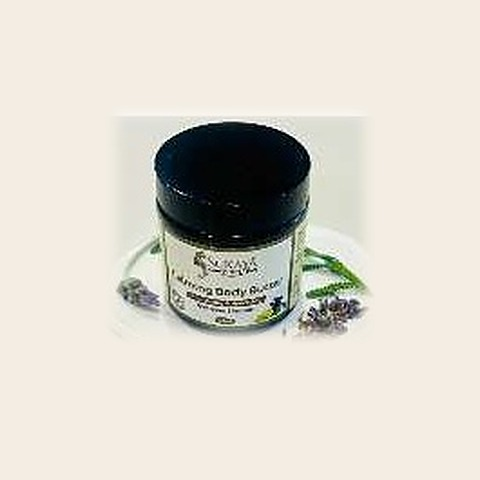
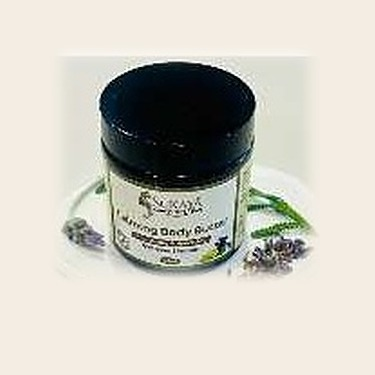
Replace low-resolution product and ingredient photos
Swaps in professional studio photos for 7 products (Super Fruits,
Calming Body Oil, Uplifting Body Oil, Lavender Balm, Patchouli, Pink
Blush, Berry Light), adds a real photo library for all 12 ingredient
chips (previously several were flat color placeholders), and builds a
Trial Collection composite from real product shots instead of a single
blurry snapshot.

Also fixes several spots where a small image crop (sized for an
ingredient card) was being stretched across a much larger hero context
— the ScrollStory Nourish/Restore chapters and two Announcement detail
pages now use properly high-resolution sources.

Changed region(s): [[0.1467, 0.1467, 0.8507, 0.7627], [0.7627, 0.2933, 0.8213, 0.4693], [0.4693, 0.3813, 0.4987, 0.44]]

diff --git a/lib/announcements.ts b/lib/announcements.ts
@@ -60,7 +60,7 @@ export const announcements: AnnouncementEntry[] = [
     shortDescription: "Botanical nourishment for your daily ritual.",
     content:
       "Rosehip, sea buckthorn, and a quiet blend of carotenoid-rich oils — formulated for the moments skin needs to restore, not just perform. Essential-oil-free and gentle enough for daily use.",
-    image: "/images/ingredients/rosehip-closeup.jpg",
+    image: "/images/lifestyle/rosehip-restore.jpg",
     imageAlt: "Rosehip, one of the key botanicals in the Super Fruits Face Elixir",
     date: "2026-08-20",
     ctaText: "Discover",
@@ -107,8 +107,8 @@ export const announcements: AnnouncementEntry[] = [
     shortDescription: "The full Sukaya ingredient library — what's in every formula, and why.",
     content:
       "Waterless, preservative-free, and never hiding behind a proprietary blend. Every oil, extract, and butter we use is listed with the reason it's there.",
-    image: "/images/ingredients/lavender-closeup.jpg",
-    imageAlt: "Lavender, one of the botanicals used across the Sukaya range",
+    image: "/images/lifestyle/philosophy-botanicals.jpg",
+    imageAlt: "Lavender, rosehip, geranium, and strawberry arranged on a natural surface",
     date: "2026-06-01",
     ctaText: "Explore Ingredients",
     ctaLink: "/about#ingredients",
@@ -192,7 +192,7 @@ export const announcements: AnnouncementEntry[] = [
     type: "shipping",
     title: "A Note On Shipping.",
     shortDescription: "[Add real shipping details here.]",
-    image: "/images/lifestyle/ingredients-honeycomb-lavender.jpg",
+    image: "/images/lifestyle/honey-lavender-nourish.jpg",
     imageAlt: "Honeycomb and lavender, ingredients used across the Sukaya range",
     date: "2026-09-01",
     ctaText: "Learn More",

diff --git a/lib/ingredient-gallery.ts b/lib/ingredient-gallery.ts
@@ -30,44 +30,37 @@ export const ingredientGallery: GalleryIngredient[] = [
   {
     name: "Camellia",
     benefit: "Silk-soft, deeply hydrating",
-    color: "#e7d3ce",
-    textColor: "#5a3a34",
+    image: "/images/ingredients/camellia-closeup.jpg",
   },
   {
     name: "Jojoba",
     benefit: "Mirrors skin's own oils",
-    color: "#cbb27a",
-    textColor: "#453a1f",
+    image: "/images/ingredients/jojoba-closeup.jpg",
   },
   {
     name: "Sea Buckthorn",
     benefit: "Regenerates, protects",
-    color: "#d97f3d",
-    textColor: "#3a230f",
+    image: "/images/ingredients/sea-buckthorn-closeup.jpg",
   },
   {
     name: "Hibiscus",
     benefit: "Nature's gentle exfoliant",
-    color: "#b8506e",
-    textColor: "#fbe9ee",
+    image: "/images/ingredients/hibiscus-closeup.jpg",
   },
   {
     name: "Calendula",
     benefit: "Soothes and repairs",
-    color: "#dda43e",
-    textColor: "#3a2a0f",
+    image: "/images/ingredients/calendula-closeup.jpg",
   },
   {
     name: "Pomegranate",
     benefit: "Firms, brightens, protects",
-    color: "#7d2f3a",
-    textColor: "#f6e3e2",
+    image: "/images/ingredients/pomegranate-closeup.jpg",
   },
   {
     name: "Shea",
     benefit: "Rich, restorative butter",
-    color: "#e6d7bb",
-    textColor: "#4a3d24",
+    image: "/images/ingredients/shea-closeup.jpg",
   },
   {
     name: "Strawberry Seed",

diff --git a/lib/products.ts b/lib/products.ts
@@ -30,7 +30,6 @@ export const products: Product[] = [
     concerns: ["Glow", "Everyday"],
     price: 31.99,
     image: "/images/products/pink-blush-mask.jpg",
-    lifestyleImage: "/images/lifestyle/pink-blush-hero.jpg",
     skinType: "All skin types, especially those needing gentle exfoliation",
     aroma: "Soft powder texture with a natural floral aroma from hibiscus and clay",
     featured: true,
@@ -69,6 +68,7 @@ export const products: Product[] = [
     concerns: ["Sensitive", "Everyday"],
     price: 31.99,
     image: "/images/products/patchouli-cleansing-oil.jpg",
+    lifestyleImage: "/images/lifestyle/patchouli-lifestyle.jpg",
     skinType: "All skin types, including sensitive, dry, or combination",
     aroma: "Soothing floral and woody fragrance, dominated by patchouli and lavender",
     featured: true,
@@ -193,7 +193,6 @@ export const products: Product[] = [
     concerns: ["Everyday", "Dry"],
     price: 5.99,
     image: "/images/products/geranium-lip-balm.jpg",
-    lifestyleImage: "/images/lifestyle/geranium-lip-balm-lifestyle.jpg",
     skinType: "All skin types, especially dry or sensitive lips",
     aroma: "Soft, sweet, floral fragrance from geranium essential oil",
     featured: true,

diff --git a/components/scroll-story.tsx b/components/scroll-story.tsx
@@ -15,19 +15,19 @@ const chapters = [
     eyebrow: "02 — Nourish",
     title: "Lavender, honey & seed oils.",
     copy: "Feed the skin what it knows.",
-    image: "/images/lifestyle/ingredients-honeycomb-lavender.jpg",
+    image: "/images/lifestyle/honey-lavender-nourish.jpg",
   },
   {
     eyebrow: "03 — Restore",
     title: "Rosehip & sea buckthorn.",
     copy: "Repair, from the inside out.",
-    image: "/images/ingredients/rosehip-closeup.jpg",
+    image: "/images/lifestyle/rosehip-restore.jpg",
   },
   {
     eyebrow: "04 — Ritual",
     title: "Slow down. Apply with care.",
     copy: "Skincare as a daily pause.",
-    image: "/images/lifestyle/pink-blush-hero.jpg",
+    image: "/images/products/pink-blush-mask.jpg",
   },
 ];
 

diff --git a/components/announcement-hero.tsx b/components/announcement-hero.tsx
@@ -10,8 +10,8 @@ export function AnnouncementHero() {
     <section className="relative flex min-h-[46vh] items-end overflow-hidden bg-olive-deep sm:min-h-[56vh]">
       <div className="absolute inset-0">
         <Image
-          src="/images/lifestyle/ingredients-honeycomb-lavender.jpg"
-          alt="Honeycomb and lavender, botanicals used across the Sukaya range"
+          src="/images/lifestyle/philosophy-botanicals.jpg"
+          alt="Lavender, rosehip, geranium, and strawberry arranged on a natural surface"
           fill
           priority
           sizes="100vw"
